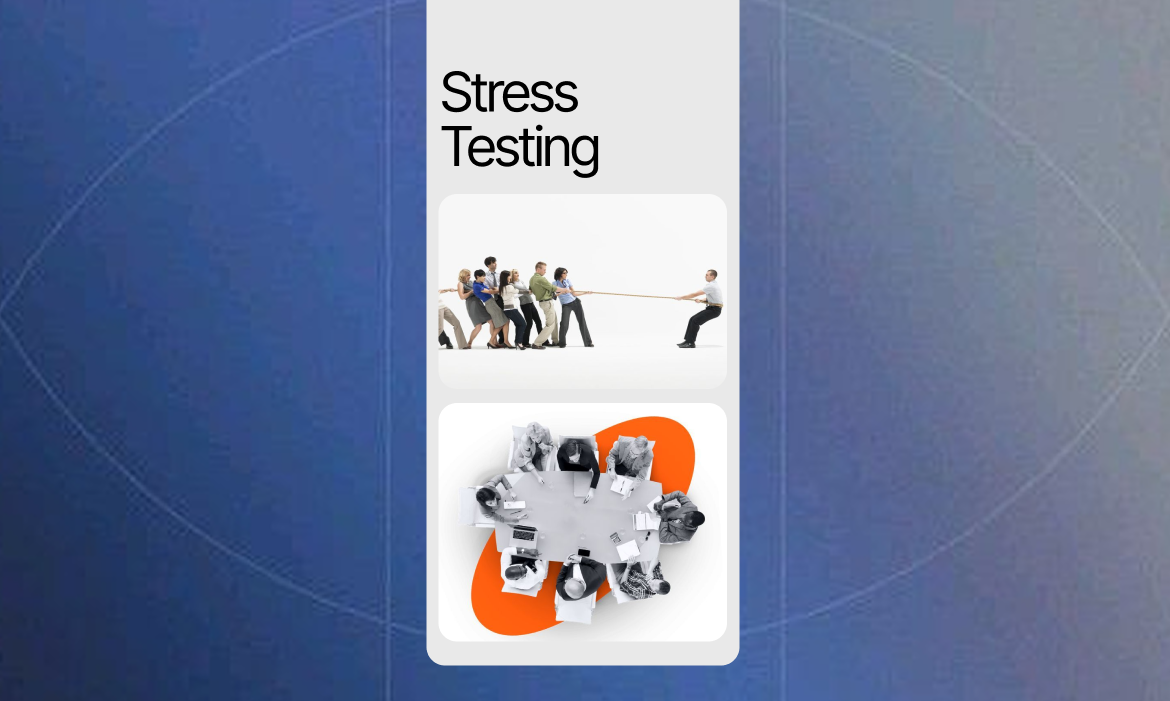
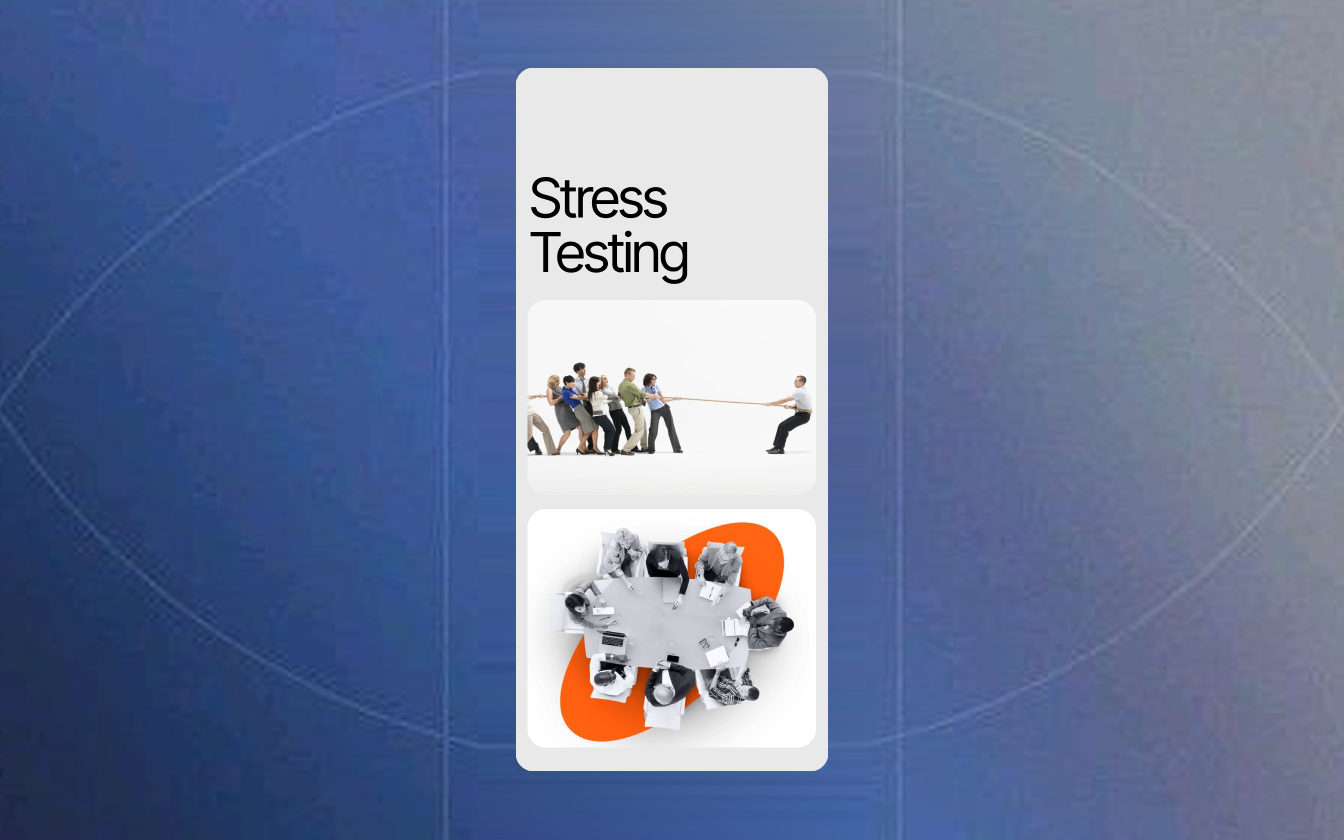
feat(ad-campaign): sync latest campaign funnel updates and test assets

Changed region(s): [[0.3385, 0.0, 0.6462, 0.9586]]

diff --git a/public/ad-campaign/style.css b/public/ad-campaign/style.css
@@ -194,11 +194,11 @@ a {
   z-index: 25;
 }
 
-/* Main Impact Headline - Perfectly formatted to 3 lines (Decreased Size) */
+/* Main Impact Headline */
 .hero-main-headline {
   font-family: var(--font-header);
-  font-size: clamp(1.6rem, 3.2vw, 2.35rem);
-  line-height: 1.22;
+  font-size: clamp(1.75rem, 3.3vw, 2.45rem);
+  line-height: 1.2;
   letter-spacing: -0.5px;
   font-weight: 900;
   text-transform: uppercase;
@@ -209,7 +209,7 @@ a {
 
 .hero-main-headline .headline-line {
   display: block;
-  white-space: normal;
+  white-space: nowrap;
 }
 
 /* Subheadline */
@@ -1264,7 +1264,29 @@ a {
 
   .hero-framework-section {
     background: linear-gradient(to bottom, #1f223c calc(100% - 105px), #ffffff calc(100% - 105px));
-    padding: 36px 16px 0px;
+    padding: 30px 18px 0px;
+  }
+
+  /* Mobile Headline: strictly 4 lines matching media_1791469561569.png */
+  .hero-main-headline {
+    font-size: clamp(1.2rem, 5.6vw, 1.85rem);
+    line-height: 1.18;
+    letter-spacing: -0.4px;
+    margin-bottom: 20px;
+  }
+
+  .hero-main-headline .headline-line {
+    display: block;
+    white-space: nowrap;
+  }
+
+  /* Exact Mobile Subheadline matching media_1791469561569.png */
+  .hero-subheadline {
+    font-size: clamp(0.95rem, 4.1vw, 1.15rem);
+    line-height: 1.44;
+    max-width: 92%;
+    margin: 0 auto 26px;
+    color: rgba(255, 255, 255, 0.95);
   }
 
   .vsl-video-frame {
@@ -1301,5 +1323,16 @@ a {
 
   .booking-card-main {
     padding: 24px 16px;
+  }
+}
+
+@media (max-width: 380px) {
+  .hero-framework-section {
+    padding-left: 14px;
+    padding-right: 14px;
+  }
+  .hero-main-headline {
+    font-size: clamp(1.05rem, 5.2vw, 1.25rem);
+    letter-spacing: -0.4px;
   }
 }

diff --git a/public/ad-campaign/index.html b/public/ad-campaign/index.html
@@ -53,7 +53,8 @@
       <!-- Main Impact Headline -->
       <h1 class="hero-main-headline">
         <span class="headline-line">ARE YOU STRUGGLING WITH</span>
-        <span class="headline-line">MISSED CALLS & SLOW FOLLOW-UPS</span>
+        <span class="headline-line">MISSED CALLS & SLOW</span>
+        <span class="headline-line">FOLLOW-UPS</span>
         <span class="headline-line">IN YOUR BUSINESS?</span>
       </h1>
 
@@ -214,7 +215,7 @@
           <h3 class="module-headline">#3 Live Stress-Testing & Guaranteed Launch</h3>
           <div class="module-img-frame">
             <img 
-              src="funnel_assets/frame_48_3.png" 
+              src="funnel_assets/frame_48_3.png?v=2" 
               alt="Live Stress-Testing & Guaranteed Launch" 
               class="module-img"
             />
